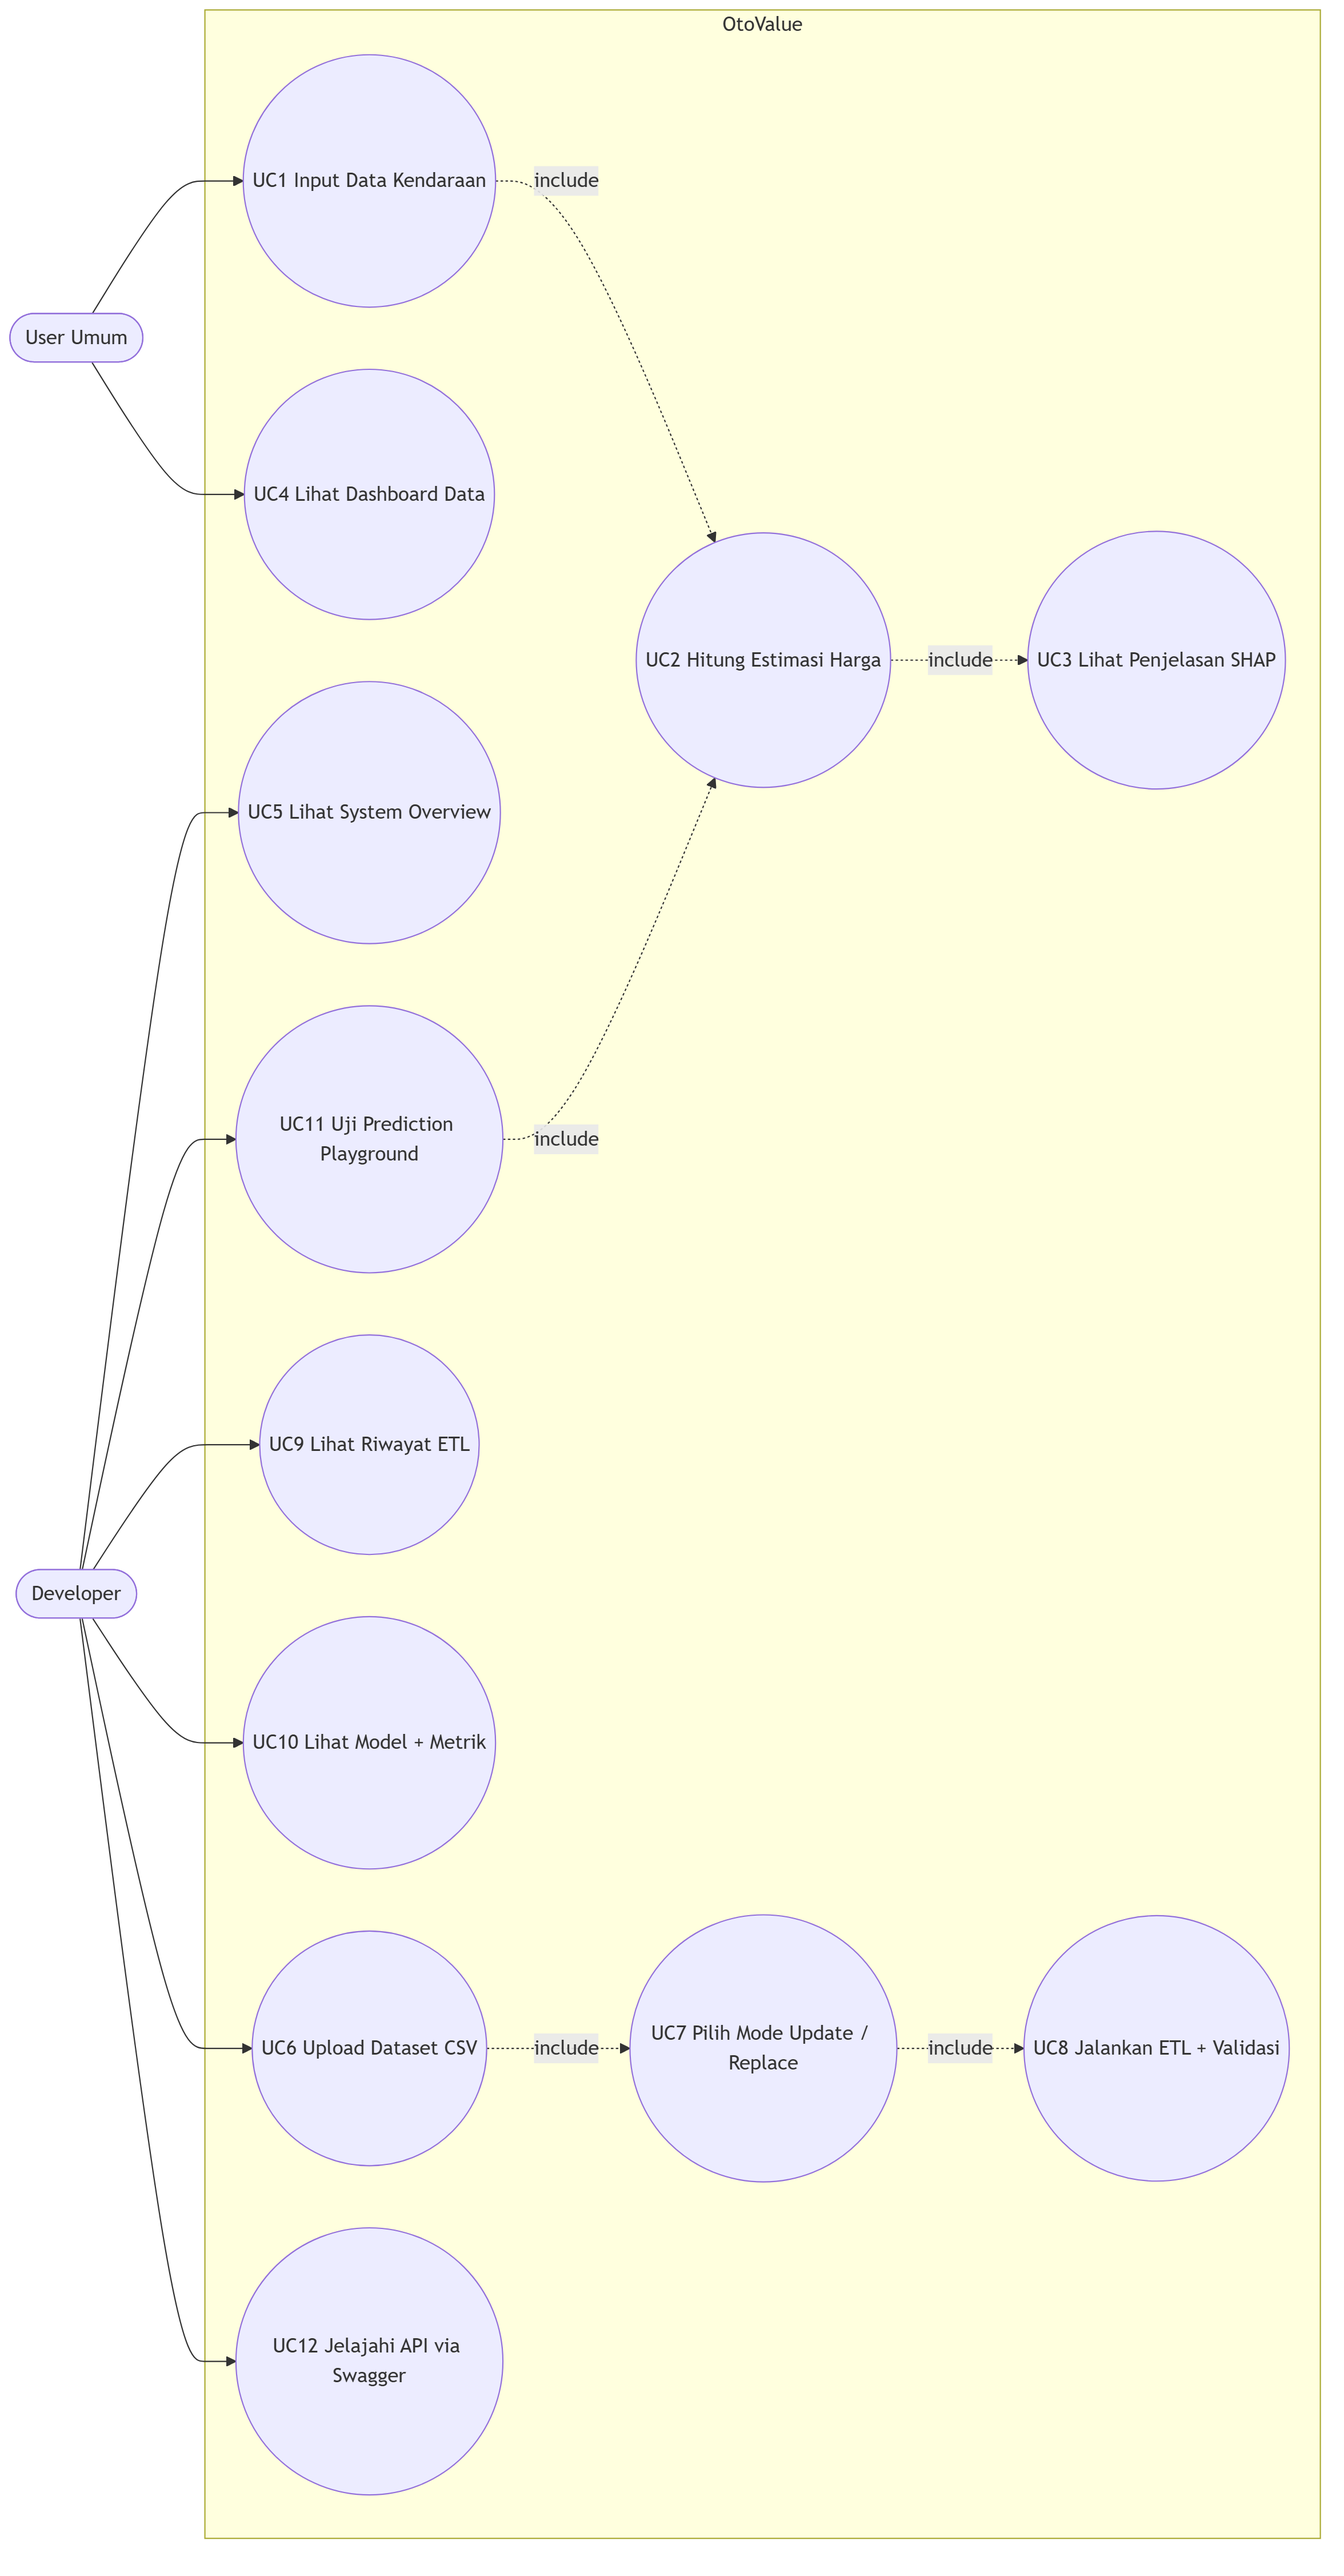
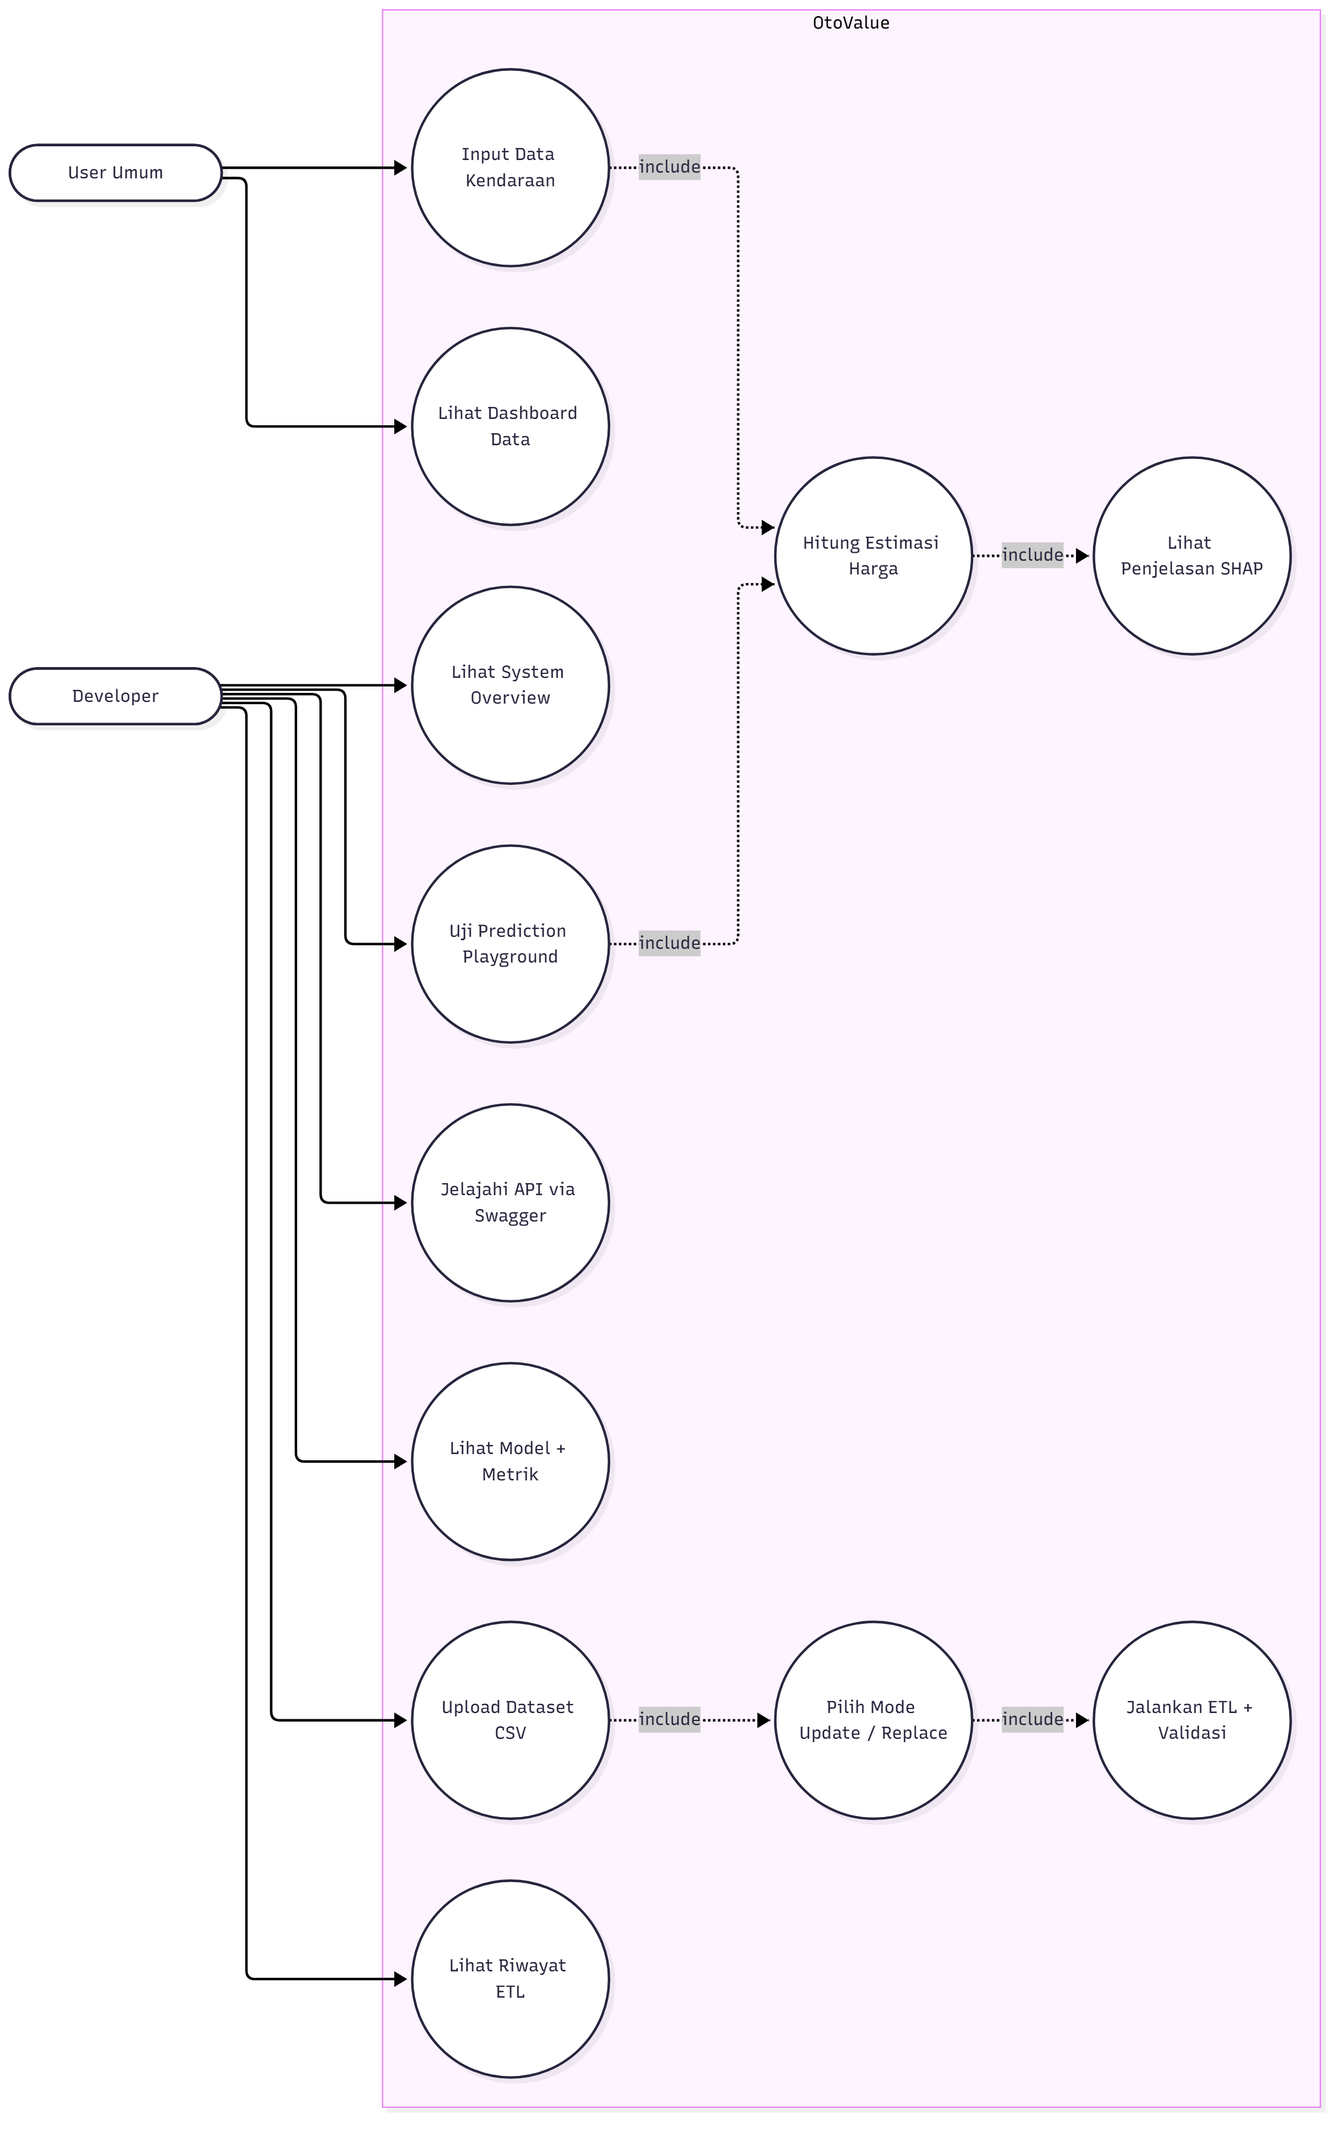
docs(bab4): simplify topology and use case diagram
Streamline system topology and use case Mermaid diagrams in README.md to improve readability, and update corresponding BAB IV figure assets.

- README.md:
  * Restructure system topology diagrams (Sections 2.1 and 4.3 /
    Gambar 4.5) from vertical (TB) to horizontal layered layout (LR)
    with internal subgraph directions; declutter intermediate
    service arrows into clean client-proxy-backend-engine-data flows.
  * Remove redundant UC prefix text inside use case node labels in
    Section 4.1.2 (Gambar 4.2) for cleaner visual presentation.
- docs/figures/bab4/gambar-4-2-use-case.png:
  * Re-render use case diagram asset matching updated Mermaid source.
- docs/figures/bab4/gambar-4-5-topologi-sistem.png:
  * Re-render system topology diagram asset matching updated layout.

diff --git a/README.md b/README.md
@@ -99,59 +99,40 @@ auto-deploy model setelah training, code editor/eksekusi arbitrary code dari por
 ### 2.1 Ringkasan Topologi Sistem
 
 ```mermaid
-flowchart TB
-    subgraph Client[Client]
-        U[User Umum]
-        D[Developer]
-        FE[User Portal\nterang]
-        DEV[Developer Portal\ngelap + badge DEV]
+flowchart LR
+    subgraph Client["Client"]
+        direction TB
+        U(["User Umum"]) --> FE["User Portal\n(terang)"]
+        D(["Developer"]) --> DEV["Developer Portal\n(gelap + DEV)"]
     end
-    subgraph App[Application Layer]
-        N80[Nginx :80 publik]
-        N8081[Nginx :8081 loopback-only]
-        F[FastAPI]
-        V[Pydantic Validation]
-        S[Prediction Service]
-        X[XAI Service]
-        DM[Dataset Service]
-        ETL[ETL Engine]
-        MS[Model Service]
+
+    subgraph App["Application Layer"]
+        direction TB
+        NGX["Nginx Proxy\n(:80 / :8081)"]
+        API["FastAPI Backend\n(Gateway & Services)"]
+        NGX -->|"/api/*"| API
     end
-    subgraph ML[ML Layer]
-        P[Preprocessing Pipeline]
-        M[XGBoost Model]
-        SH[SHAP Explainer]
+
+    subgraph ML["ML & XAI Engine"]
+        direction TB
+        PRE["Preprocessing &\nXGBoost Model"]
+        XAI["Tree SHAP Engine\n(pred_contribs=True)"]
+        PRE --> XAI
     end
-    subgraph Data[Data Layer]
-        PG[(PostgreSQL)]
-        FS[/Model Artifact Volume/]
+
+    subgraph Data["Data Layer"]
+        direction TB
+        DB[("PostgreSQL 16\nDatabase")]
+        ART[/"Model Artifacts\n(Volume Read-Only)"/]
     end
-    U --> FE
-    D --> DEV
-    FE --> N80
-    DEV --> N8081
-    N80 -->|/api/*| F
-    N8081 -->|/api/*| F
-    F --> V
-    F --> S
-    F --> X
-    F --> DM
-    F --> ETL
-    F --> MS
-    S --> P
-    P --> M
-    S --> X
-    X --> SH
-    X --> M
-    X --> P
-    ETL --> PG
-    S --> PG
-    X --> PG
-    MS --> PG
-    MS --> FS
-    M --> FS
-    P --> FS
-    SH --> FS
+
+    FE --> NGX
+    DEV --> NGX
+
+    API --> PRE
+    API --> DB
+
+    ART -.->|Load| PRE
 ```
 
 ### 2.2 Dekomposisi Arsitektur Codebase (Layered Architecture)
@@ -941,18 +922,18 @@ flowchart LR
     U([User Umum])
     D([Developer])
     subgraph SYS[OtoValue]
-        UC1((UC1 Input Data Kendaraan))
-        UC2((UC2 Hitung Estimasi Harga))
-        UC3((UC3 Lihat Penjelasan SHAP))
-        UC4((UC4 Lihat Dashboard Data))
-        UC5((UC5 Lihat System Overview))
-        UC6((UC6 Upload Dataset CSV))
-        UC7((UC7 Pilih Mode Update / Replace))
-        UC8((UC8 Jalankan ETL + Validasi))
-        UC9((UC9 Lihat Riwayat ETL))
-        UC10((UC10 Lihat Model + Metrik))
-        UC11((UC11 Uji Prediction Playground))
-        UC12((UC12 Jelajahi API via Swagger))
+        UC1((Input Data Kendaraan))
+        UC2((Hitung Estimasi Harga))
+        UC3((Lihat Penjelasan SHAP))
+        UC4((Lihat Dashboard Data))
+        UC5((Lihat System Overview))
+        UC6((Upload Dataset CSV))
+        UC7((Pilih Mode Update / Replace))
+        UC8((Jalankan ETL + Validasi))
+        UC9((Lihat Riwayat ETL))
+        UC10((Lihat Model + Metrik))
+        UC11((Uji Prediction Playground))
+        UC12((Jelajahi API via Swagger))
     end
     U --> UC1
     UC1 -. include .-> UC2
@@ -1199,59 +1180,40 @@ keamanan web, layanan backend, engine pembelajaran mesin, serta basis data
 penyimpanan. Topologi arsitektur sistem digambarkan pada Gambar 4.5.
 
 ```mermaid
-flowchart TB
-    subgraph Client[Client Layer]
-        U[User Umum]
-        D[Developer]
-        FE["User Portal (Tema Terang)"]
-        DEV["Developer Portal (Tema Gelap + Badge DEV)"]
+flowchart LR
+    subgraph Client["Client Layer"]
+        direction TB
+        U(["User Umum"]) --> FE["User Portal\n(Port 80)"]
+        D(["Developer"]) --> DEV["Developer Portal\n(Port 8081)"]
     end
-    subgraph App[Application Layer]
-        N80["Nginx :80 (Publik)"]
-        N8081["Nginx :8081 (Loopback-Only)"]
-        F[FastAPI Backend]
-        V[Pydantic Validation]
-        S[Prediction Service]
-        X[XAI Service]
-        DM[Dataset Service]
-        ETL[ETL Engine]
-        MS[Model Service]
+
+    subgraph App["Application Layer"]
+        direction TB
+        NGX["Nginx Proxy\n(:80 / :8081)"]
+        API["FastAPI Backend\n(Gateway & Services)"]
+        NGX -->|"/api/*"| API
     end
-    subgraph ML[Machine Learning Layer]
-        P[Preprocessing Pipeline]
-        M[XGBoost Booster Model]
-        SH[Tree SHAP Explainer]
+
+    subgraph ML["Machine Learning & XAI"]
+        direction TB
+        PRE["Preprocessing &\nXGBoost Model"]
+        XAI["Tree SHAP Engine\n(pred_contribs=True)"]
+        PRE --> XAI
     end
-    subgraph Data[Data Layer]
-        PG[(PostgreSQL 16)]
-        FS[/Model Artifact Volume/]
+
+    subgraph Data["Data Layer"]
+        direction TB
+        DB[("PostgreSQL 16\nDatabase")]
+        ART[/"Model Artifacts\n(Volume Read-Only)"/]
     end
-    U --> FE
-    D --> DEV
-    FE --> N80
-    DEV --> N8081
-    N80 -->|"/api/*"| F
-    N8081 -->|"/api/*"| F
-    F --> V
-    F --> S
-    F --> X
-    F --> DM
-    F --> ETL
-    F --> MS
-    S --> P
-    P --> M
-    S --> X
-    X --> SH
-    X --> M
-    X --> P
-    ETL --> PG
-    S --> PG
-    X --> PG
-    MS --> PG
-    MS --> FS
-    M --> FS
-    P --> FS
-    SH --> FS
+
+    FE --> NGX
+    DEV --> NGX
+
+    API --> PRE
+    API --> DB
+
+    ART -.->|Load| PRE
 ```
 
 Gambar 4.5 Ringkasan topologi sistem OtoValue
